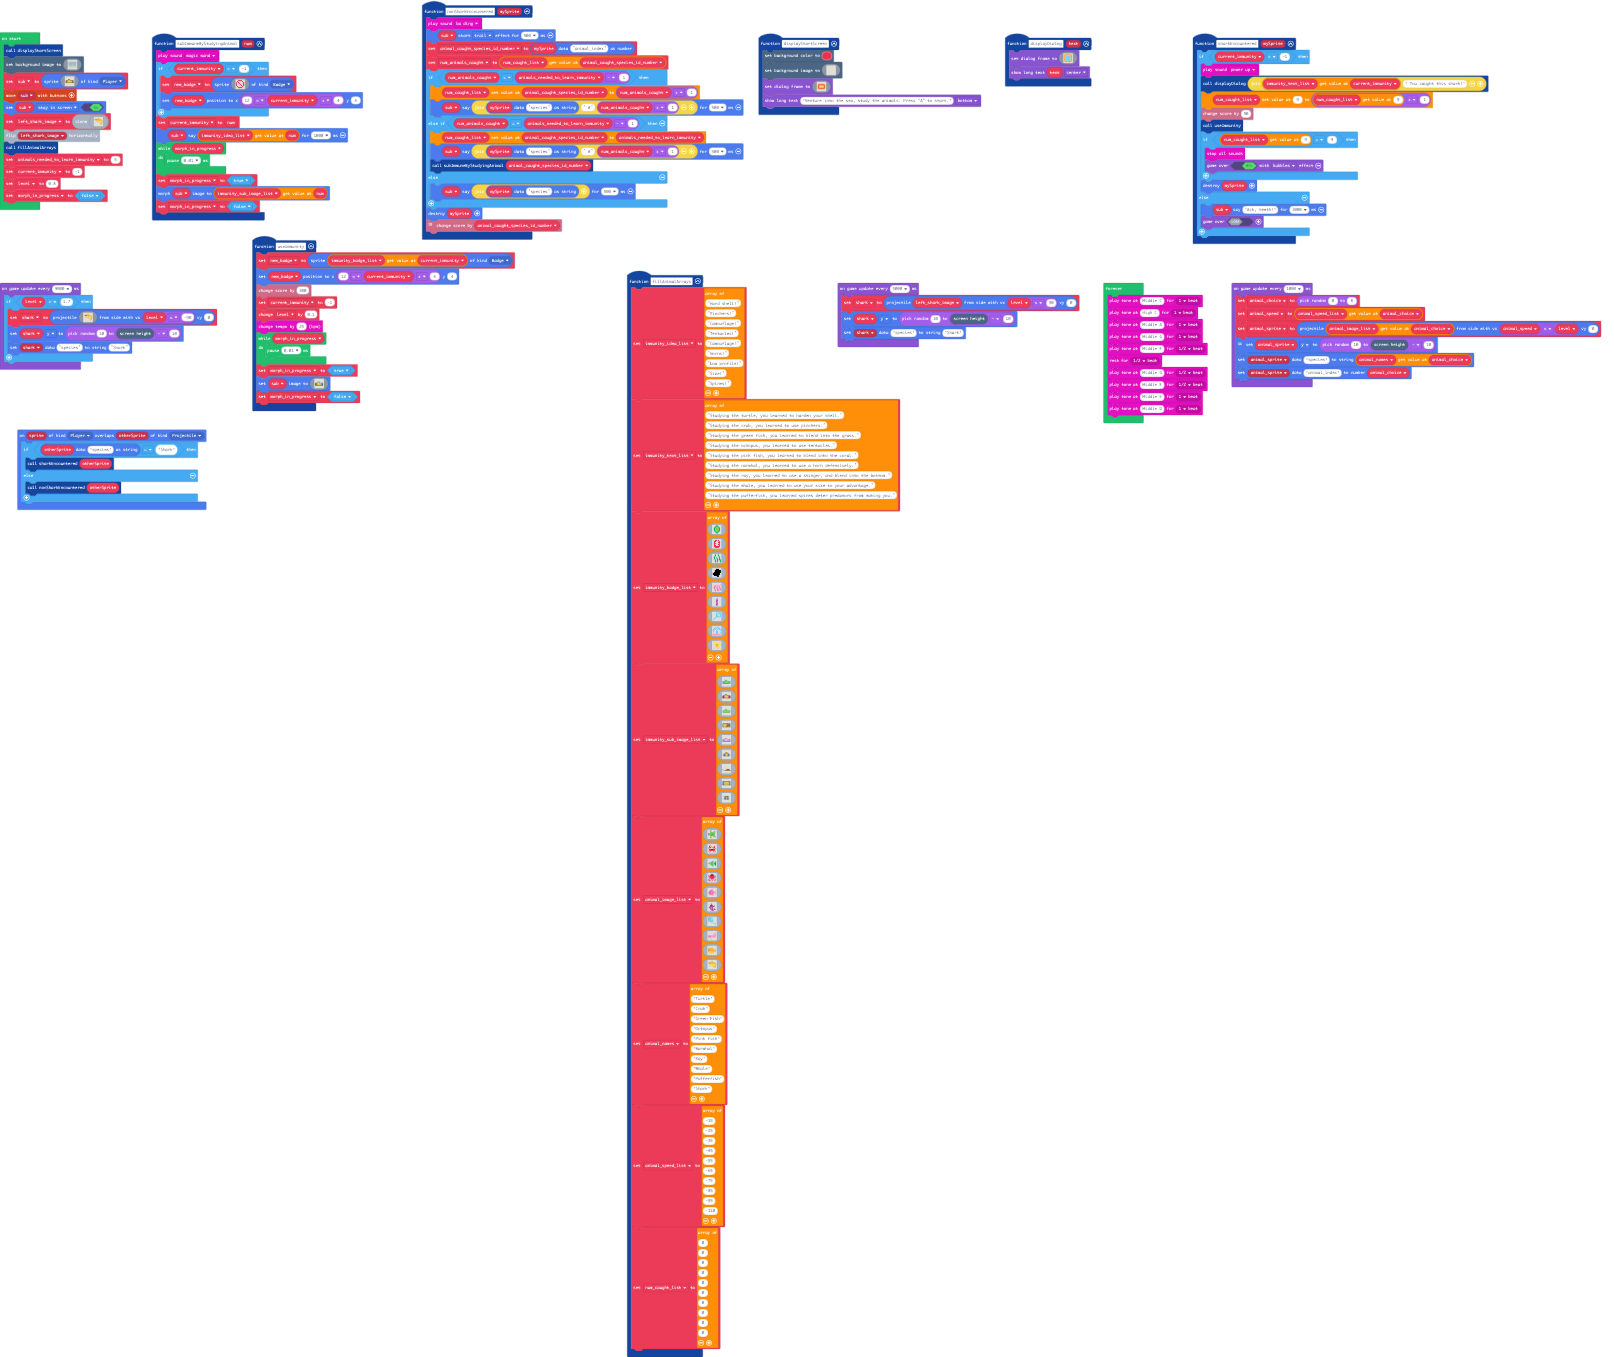
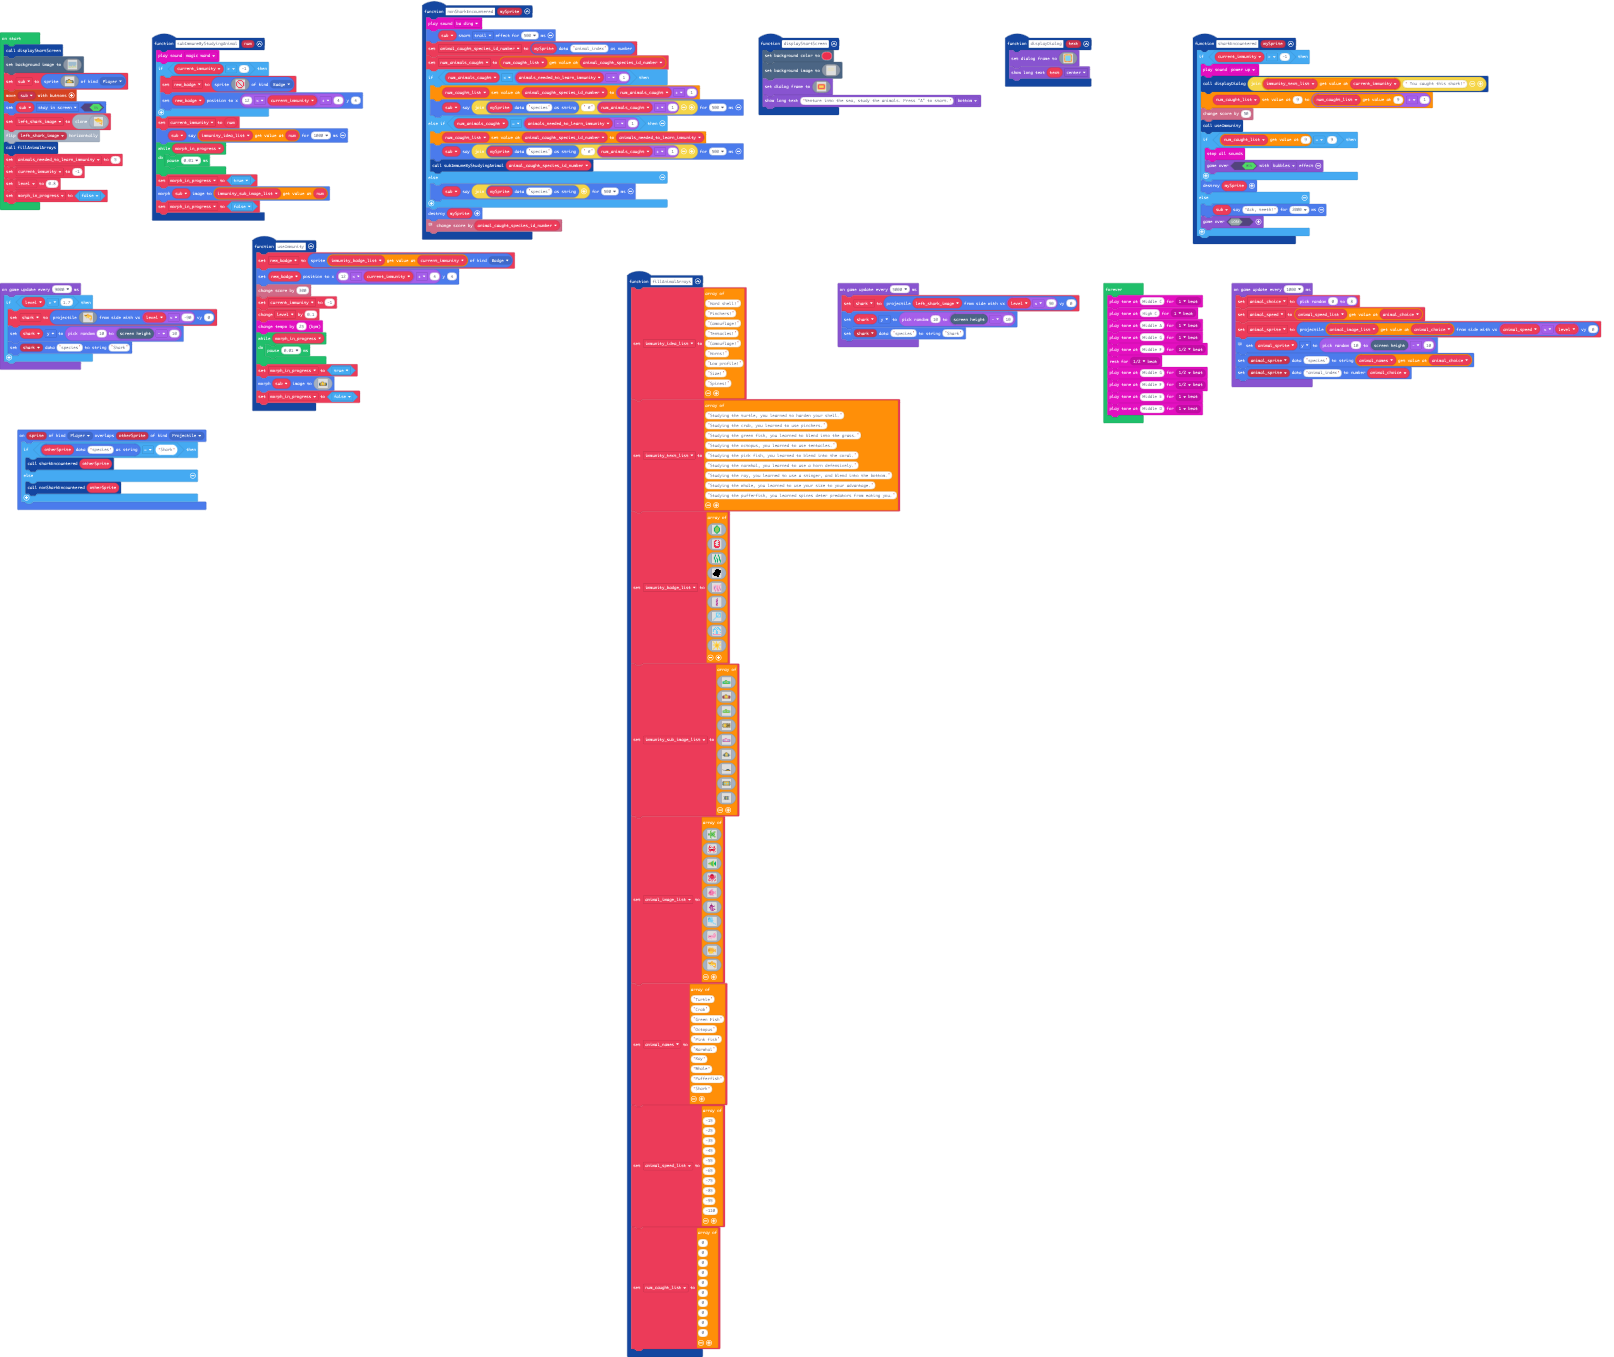
Morph when immunity used.

diff --git a/main.ts b/main.ts
@@ -13,7 +13,7 @@ function useImmunity () {
         pause(0.01)
     }
     morph_in_progress = true
-    sub.setImage(img`
+    imagemorph.morph(sub, img`
         . . . . . . . . . . . f f f f f f . . . . . . . . . . . . . . . 
         . . . . . . . . . . f d e d e e e f . . . . . . . . . . . . . . 
         . . . . . . . . . . f d d e e e e f . . . . . . . . . . . . . . 
